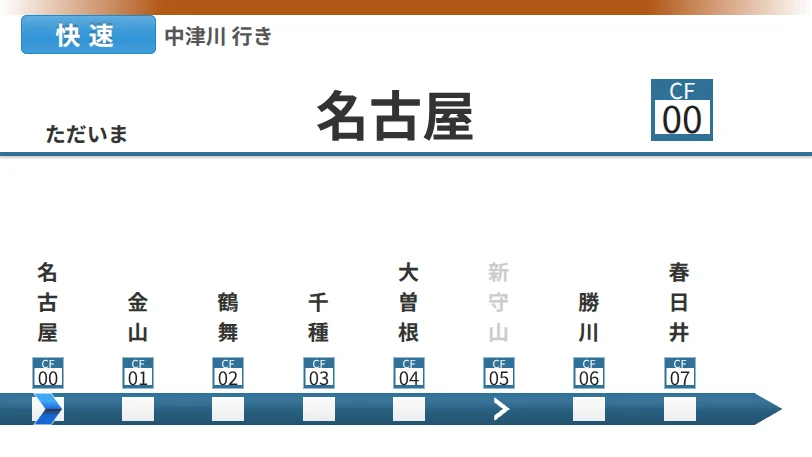
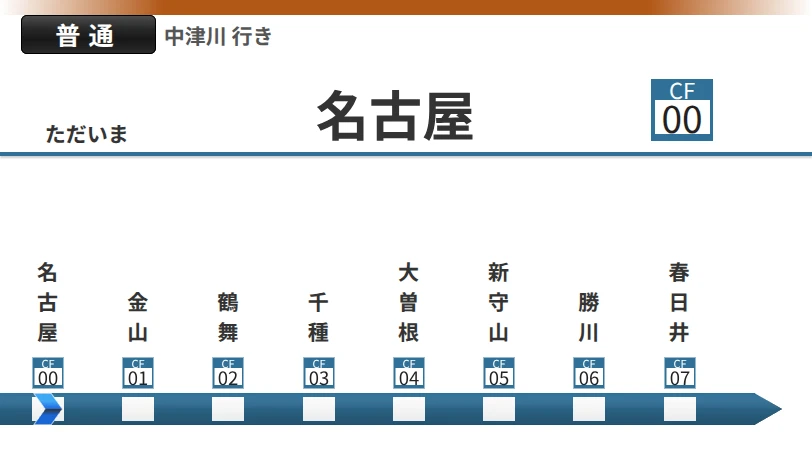
315系風の普通の種別表示を黒に固定する (#7384)

diff --git a/src/components/HeaderJRKyushu.test.tsx b/src/components/HeaderJRKyushu.test.tsx
@@ -180,8 +180,8 @@ describe('HeaderJRKyushu', () => {
           heightScale: 1.3,
           widthScale: 1.4,
           borderRadius: 6,
-          borderColor: '#1f63c6',
-          colorOverride: '#1f63c6',
+          borderColor: '#000000',
+          colorOverride: '#000000',
         })
       );
       expect(queryByTestId('TrainTypeBoxJRKyushu')).toBeNull();
@@ -193,7 +193,7 @@ describe('HeaderJRKyushu', () => {
       TrainTypeKind.CommuterRapid,
       TrainTypeKind.Default,
       TrainTypeKind.LimitedExpress,
-    ])('%sは快速系だけ青くし、枠も表示色に揃える', (kind) => {
+    ])('%sは普通を黒・快速系を青にし、枠も表示色に揃える', (kind) => {
       const trainType: TrainType = {
         __typename: 'TrainType',
         id: 1,
@@ -217,9 +217,12 @@ describe('HeaderJRKyushu', () => {
         <HeaderJRKyushu {...createMockHeaderProps({ trainType })} is315 />
       );
       const expected =
-        kind === TrainTypeKind.Rapid || kind === TrainTypeKind.HighSpeedRapid
-          ? '#1e8ad2'
-          : '#dc143c';
+        kind === TrainTypeKind.Default
+          ? '#000000'
+          : kind === TrainTypeKind.Rapid ||
+              kind === TrainTypeKind.HighSpeedRapid
+            ? '#1e8ad2'
+            : '#dc143c';
       const props = jest.mocked(TrainTypeBox).mock.calls.at(-1)?.[0];
       expect(props).toMatchObject({
         colorOverride: expected,

diff --git a/src/components/HeaderJRKyushu.tsx b/src/components/HeaderJRKyushu.tsx
@@ -6,7 +6,11 @@ import { STATION_NAME_FONT_SIZE } from '../constants';
 import { useHeaderAnimation } from '../hooks';
 import isTablet from '../utils/isTablet';
 import { RFValue } from '../utils/rfValue';
-import { getIsCommuterRapid, getIsRapid } from '../utils/trainTypeString';
+import {
+  getIsCommuterRapid,
+  getIsLocal,
+  getIsRapid,
+} from '../utils/trainTypeString';
 import type { CommonHeaderProps } from './Header.types';
 import HeaderBar from './HeaderBar';
 import HeaderStationName from './HeaderStationName';
@@ -160,8 +164,9 @@ const HeaderJRKyushu: React.FC<Props> = (props) => {
   });
 
   const lineColor = currentLine?.color ?? '#FF6D00';
-  const jr315TrainTypeColor =
-    getIsRapid(trainType) && !getIsCommuterRapid(trainType)
+  const jr315TrainTypeColor = getIsLocal(trainType)
+    ? '#000000'
+    : getIsRapid(trainType) && !getIsCommuterRapid(trainType)
       ? '#1e8ad2'
       : (trainType?.color ?? '#1f63c6');
 
